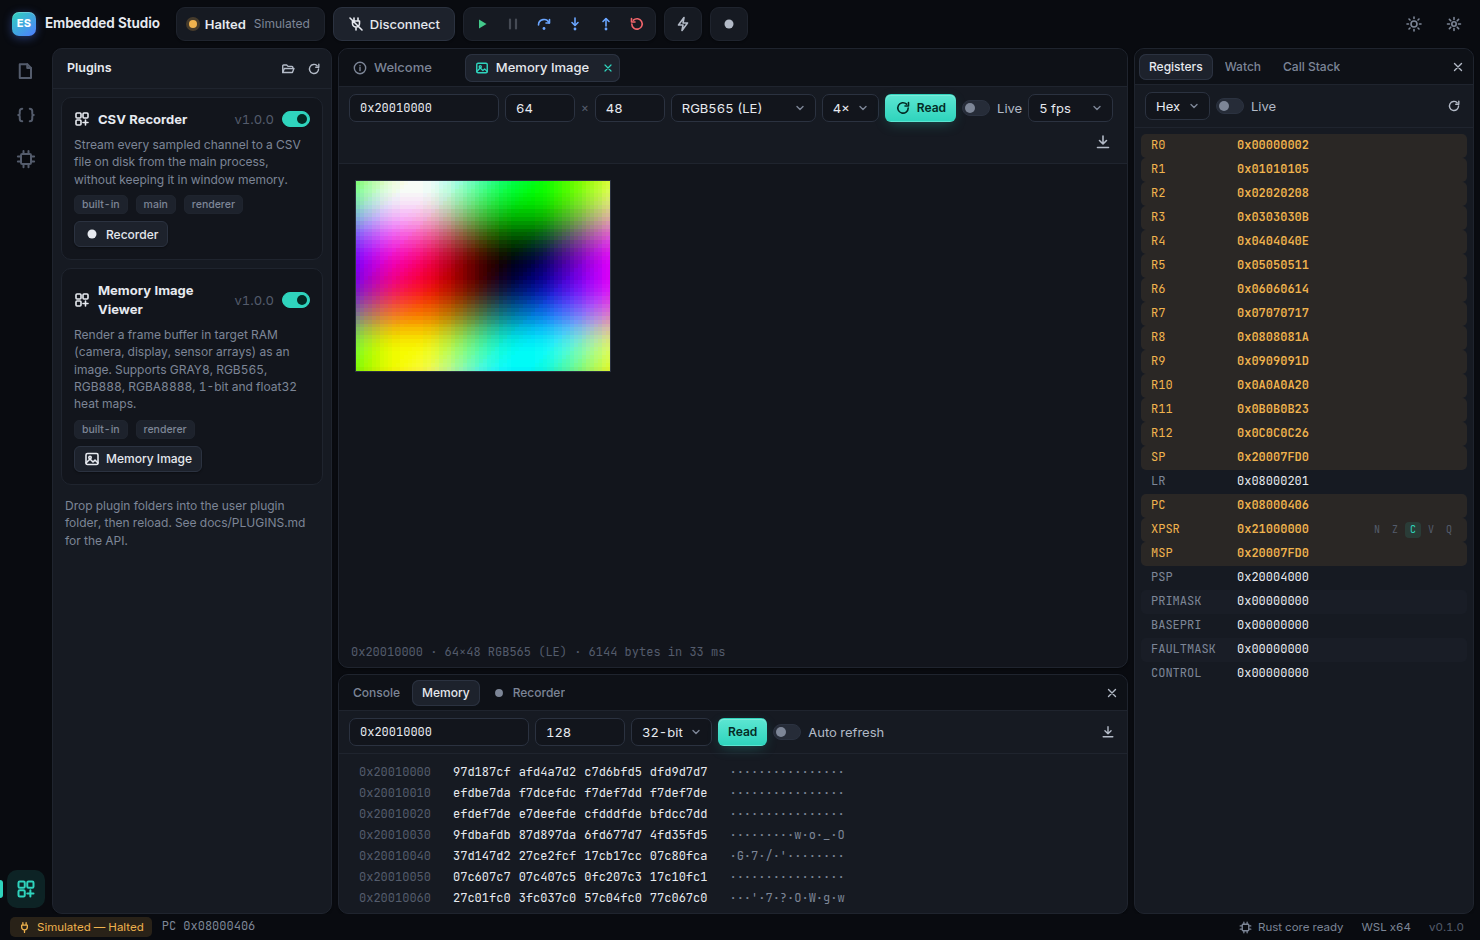
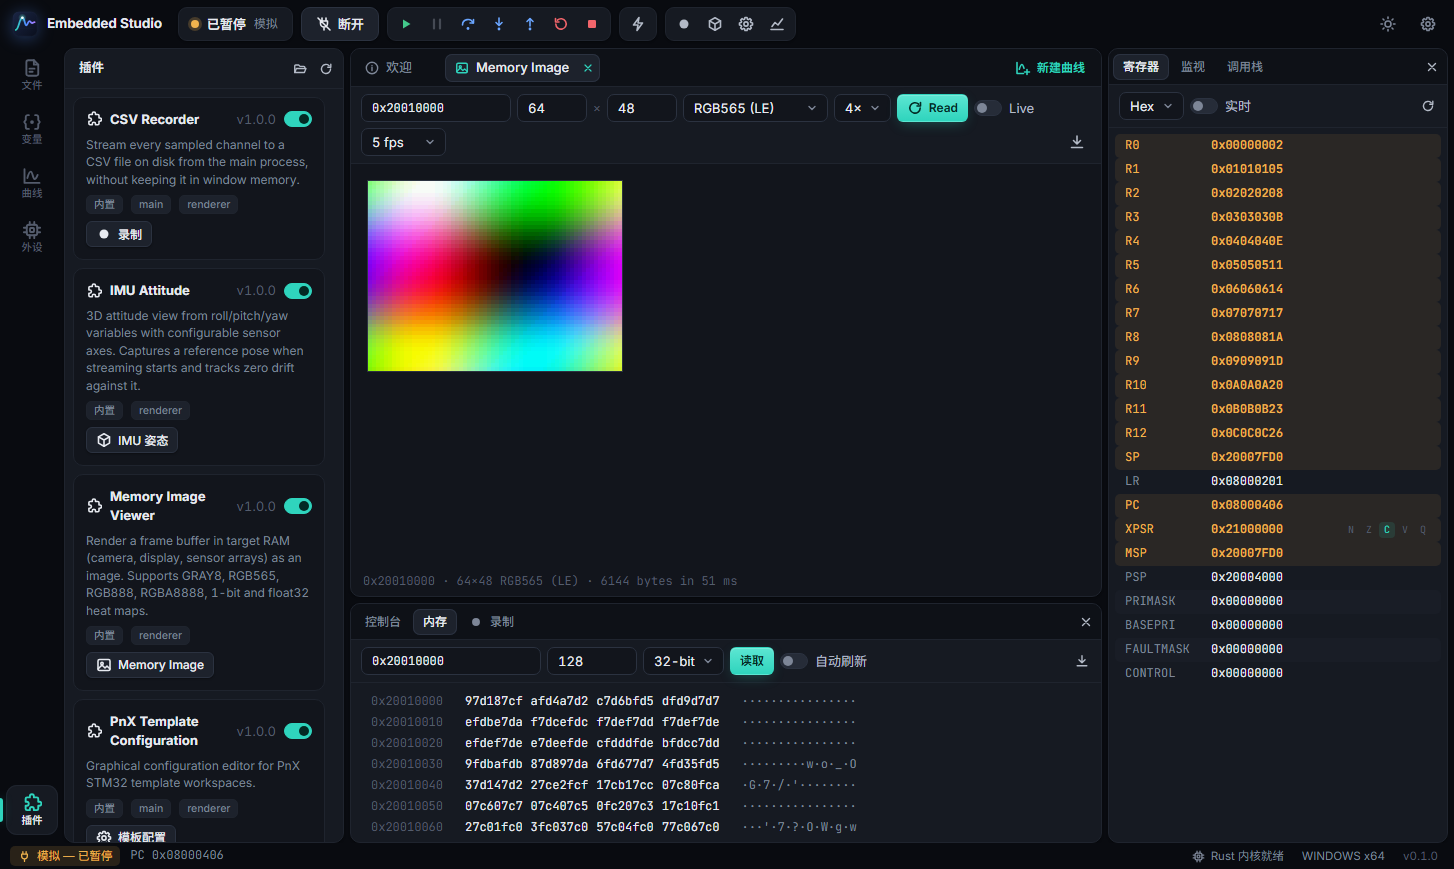
chore : update docs

diff --git a/README.md b/README.md
@@ -1,18 +1,18 @@
-# Embedded Studio
+# PNX Studio
 
-通用的嵌入式调试工作台：Electron 界面 + Rust 探针内核，通过 **DAPLink / CMSIS-DAP** 与 **ST-Link** 连接 Cortex-M 目标，提供寄存器查看、实时曲线、源码级单步调试，并预留插件生态接口。支持 Windows、macOS、Linux 与 WSL 2。
+嵌入式调试工作台：Electron 界面 + Rust 探针内核，通过 **DAPLink / CMSIS-DAP** 与 **ST-Link** 连接 Cortex-M 目标，提供寄存器查看、实时曲线和源码级单步调试。支持 Windows、macOS、Linux 与 WSL 2。
 
-由 `pnx_studio` 演化而来：保留其经过实板验证的 Rust 探针内核（probe-rs 0.31 + CMSIS-DAP 批量传输补丁），去掉 PnX 工程专用逻辑，重写了界面与插件体系。
+通用功能由核心提供，PnX STM32 模板配置和云台系统辨识等功能通过内置插件扩展。Rust 探针内核使用 probe-rs 0.31 和 CMSIS-DAP 批量传输补丁。
 
-![实时曲线](docs/screenshots/streaming.png)
+![模拟目标采样后的曲线与变量监视（已暂停）](docs/screenshots/streaming.png)
 
-![单步调试、寄存器与内存图像](docs/screenshots/debugging.png)
+![模拟目标的调试、寄存器与内存图像](docs/screenshots/debugging.png)
 
 ## 功能
 
 | 区域 | 功能 |
 | --- | --- |
-| 连接 | 扫描探针（CMSIS-DAP / DAPLink / ST-Link / J-Link），芯片型号自动补全（probe-rs 内置全部目标），SWD/JTAG、时钟、复位下连接；三种模式：**调试**（可选先烧录 → 复位 → 保持运行；不勾选烧录则附加不打断运行）、**启动**（可选先烧录 → 复位 → 运行到 `main`）、**监视**（只读采样，绝不暂停或写入目标）；镜像未变化时自动跳过擦写；会话中点击“烧录”会重启会话再烧录，暂停状态下也能烧录新固件并重新加载符号；内置**模拟目标**，无硬件也能体验全部视图 |
+| 连接 | 扫描探针（CMSIS-DAP / DAPLink / ST-Link / J-Link），芯片型号自动补全（probe-rs 内置全部目标），SWD/JTAG、时钟、复位下连接；三种模式：**调试**（可选先烧录 → 复位 → 保持运行；不勾选烧录则附加不打断运行）、**启动**（可选先烧录 → 复位 → 运行到 `main`）、**监视**（只读采样，绝不暂停或写入目标）；镜像未变化时自动跳过擦写；会话中点击“烧录”会重启会话再烧录，暂停状态下也能烧录新固件并重新加载符号；内置**模拟目标**，无硬件也能体验主要调试视图 |
 | 寄存器 | 内核寄存器 R0–R12/SP/LR/PC/xPSR/MSP/PSP/特殊寄存器，单步后高亮变化，xPSR 标志位解码，Hex/Dec/Bin 切换，可选实时轮询 |
 | 外设 | 加载 CMSIS-SVD，按外设/寄存器筛选，读取并按位域解码，位图显示，双击编辑寄存器或位域（读-改-写），1 位字段双击翻转 |
 | 曲线 | 从 ELF 的 DWARF 中选择全局变量，最高数十 kHz 流式采样；同一页内可放多个曲线并拖动排布（拖到边缘拆分、拖到中间交换、拖动分隔条调整大小，网格/堆叠/并排预设），同步时间轴时作为子图（subplot）显示：只有最底部显示时间轴、子图工具栏收起为悬停按钮，暂停/时间窗/采样率在画布工具栏统一设置，整体导出为一个 CSV（统一时间列）和一张 PNG；多曲线页、拖拽添加、min/max 抽稀保证尖峰可见、十字光标读数、滚轮缩放时间窗、Shift+滚轮缩放 Y、拖动回看、暂停、CSV/PNG 导出 |
@@ -26,7 +26,15 @@
 - **IMU Attitude**（顶部工具栏立方体图标打开）：手动选择 Roll / Pitch / Yaw 变量（可自动识别），按传感器轴映射（默认前 X、左 Y、上 Z，可调）显示 3D 姿态；开始采样时记录初始位姿作为参考，实时显示各轴 Δ、零漂速率（°/min，最小二乘拟合）和漂移曲线，可随时重新记录零点。模拟目标自带 `imu` 结构体用于体验。
 - **CSV Recorder**：在“录制”面板中选择要录制的变量（+ 添加或从「变量」/「监视」拖入），录制器自行保持这些变量的采样并只写这些列；不选则录制所有正在采样的通道。在主进程中直接写入 CSV 文件，长时间记录不占用窗口内存。
 - **PnX Template Configuration**：打开 PnX STM32 模板工程后，点击工具栏的模板配置按钮或在命令面板运行“打开模板配置”，按模块和板卡编辑 `configs/user_config.json`。板卡资源从工程中的板级定义读取；保存时检查参数、资源冲突及文件是否被外部修改，并保留未知字段。保存只更新 JSON，构建工程时会重新生成配置头文件；也可在工程目录执行 `cmake -P configs/scripts/generate_config.cmake`。模板脚本是最终校验依据。
-- **Gimbal System Identification**：在命令面板运行“打开系统辨识”，或通过工具栏进入。插件支持分析已有的 Auto-ID V1 `raw.csv`，也支持选择串口和新的输出文件，启动 Yaw 轴实验；在线模式需要目标固件实现 `AUTO_ID_START` / `AUTO_ID_ABORT` 协议，默认 921600 波特。实验会驱动云台运动约 40 秒，中止按钮发送固件停止请求，不能代替急停。原始 CSV 与元数据保存在选定路径，辨识使用电流**指令**和角速度拟合一阶模型及延迟，并展示拟合度、饱和与丢样信息。只有提供经过标定、带符号的力矩/指令换算系数时才计算 J 和 B。没有元数据的离线文件使用 V1 默认时长和基线比例，丢样数未知；该插件目前仅针对参考工程的 Yaw V1 格式，不是通用电机辨识工具。
+- **Gimbal System Identification**：在命令面板运行“打开系统辨识”，或通过工具栏进入。插件支持分析已有的 Auto-ID V1 `raw.csv`，也支持选择串口和新的输出文件，启动 Yaw 轴实验；在线模式需要目标固件实现 `AUTO_ID_START` / `AUTO_ID_ABORT` 协议，默认 921600 波特，PnX STM32 模板默认不包含该协议。实验会驱动云台运动约 40 秒；中止按钮和关闭视图都会请求固件停止，不能代替急停。原始数据保存在选定的 CSV 中；收到实验元数据后，将其保存在 `<CSV 文件路径>.meta.json`，辨识结果可导出为 JSON。插件使用电流**指令**和角速度拟合一阶模型及延迟，并展示拟合度、饱和与丢样信息。只有提供经过标定、带符号的力矩/指令换算系数时才计算 J 和 B。没有元数据的离线文件使用 V1 默认的 40 秒时长和 20% 基线比例，丢样数未知。插件针对参考工程的 Yaw V1 格式，在线实验尚未实机验证。
+
+模板工程的板卡资源配置：
+
+![PnX STM32 模板的图形化配置](docs/screenshots/template-config.png)
+
+使用已有采样数据进行离线辨识：
+
+![云台系统辨识的离线拟合结果](docs/screenshots/system-identification.png)
 
 ## 架构
 
@@ -120,17 +128,11 @@ Windows 版直接使用 Windows 的 USB 栈访问探针，无需 usbipd；工程
 
 ### 发布 GitHub Release
 
-普通的 `main` 推送和 Pull Request 只运行构建并上传 Actions 产物。推送 `vMAJOR.MINOR.PATCH` 格式的版本标签时，工作流会使用标签版本打包；四个平台全部通过后才创建或更新对应的 GitHub Release，并附上各平台安装包与 SHA-256 校验文件。
+仅修改 README 等文档时，直接提交并推送 `main` 即可，无需修改版本号或创建标签。普通的 `main` 推送和 Pull Request 只运行构建并上传 Actions 产物，不会创建 GitHub Release。
 
-先提交并推送需要发布的代码和工作流，再为该提交创建一个尚未使用的标签，例如：
+需要发布程序安装包时，先提交并推送要发布的代码，再推送一个尚未使用的 `vMAJOR.MINOR.PATCH` 版本标签。工作流会使用标签版本打包；四个平台全部通过后才创建或更新对应的 GitHub Release，并附上各平台安装包与 SHA-256 校验文件。
 
-```sh
-git push origin main
-git tag v1.1.13
-git push origin v1.1.13
-```
-
-请根据已有标签选择实际版本号；标签指向的提交必须包含发布工作流和要发布的更改。重跑同一标签的工作流会更新同名附件。需要在仓库设置中允许 GitHub Actions 使用 `GITHUB_TOKEN` 写入内容；具体构建状态可在 Actions 中查看。
+标签指向的提交必须包含发布工作流和要发布的更改。重跑旧标签仍会构建该标签原来指向的提交，并更新同名附件，不会包含后续代码。需要在仓库设置中允许 GitHub Actions 使用 `GITHUB_TOKEN` 写入内容；具体构建状态可在 Actions 中查看。
 
 ## 插件
 
